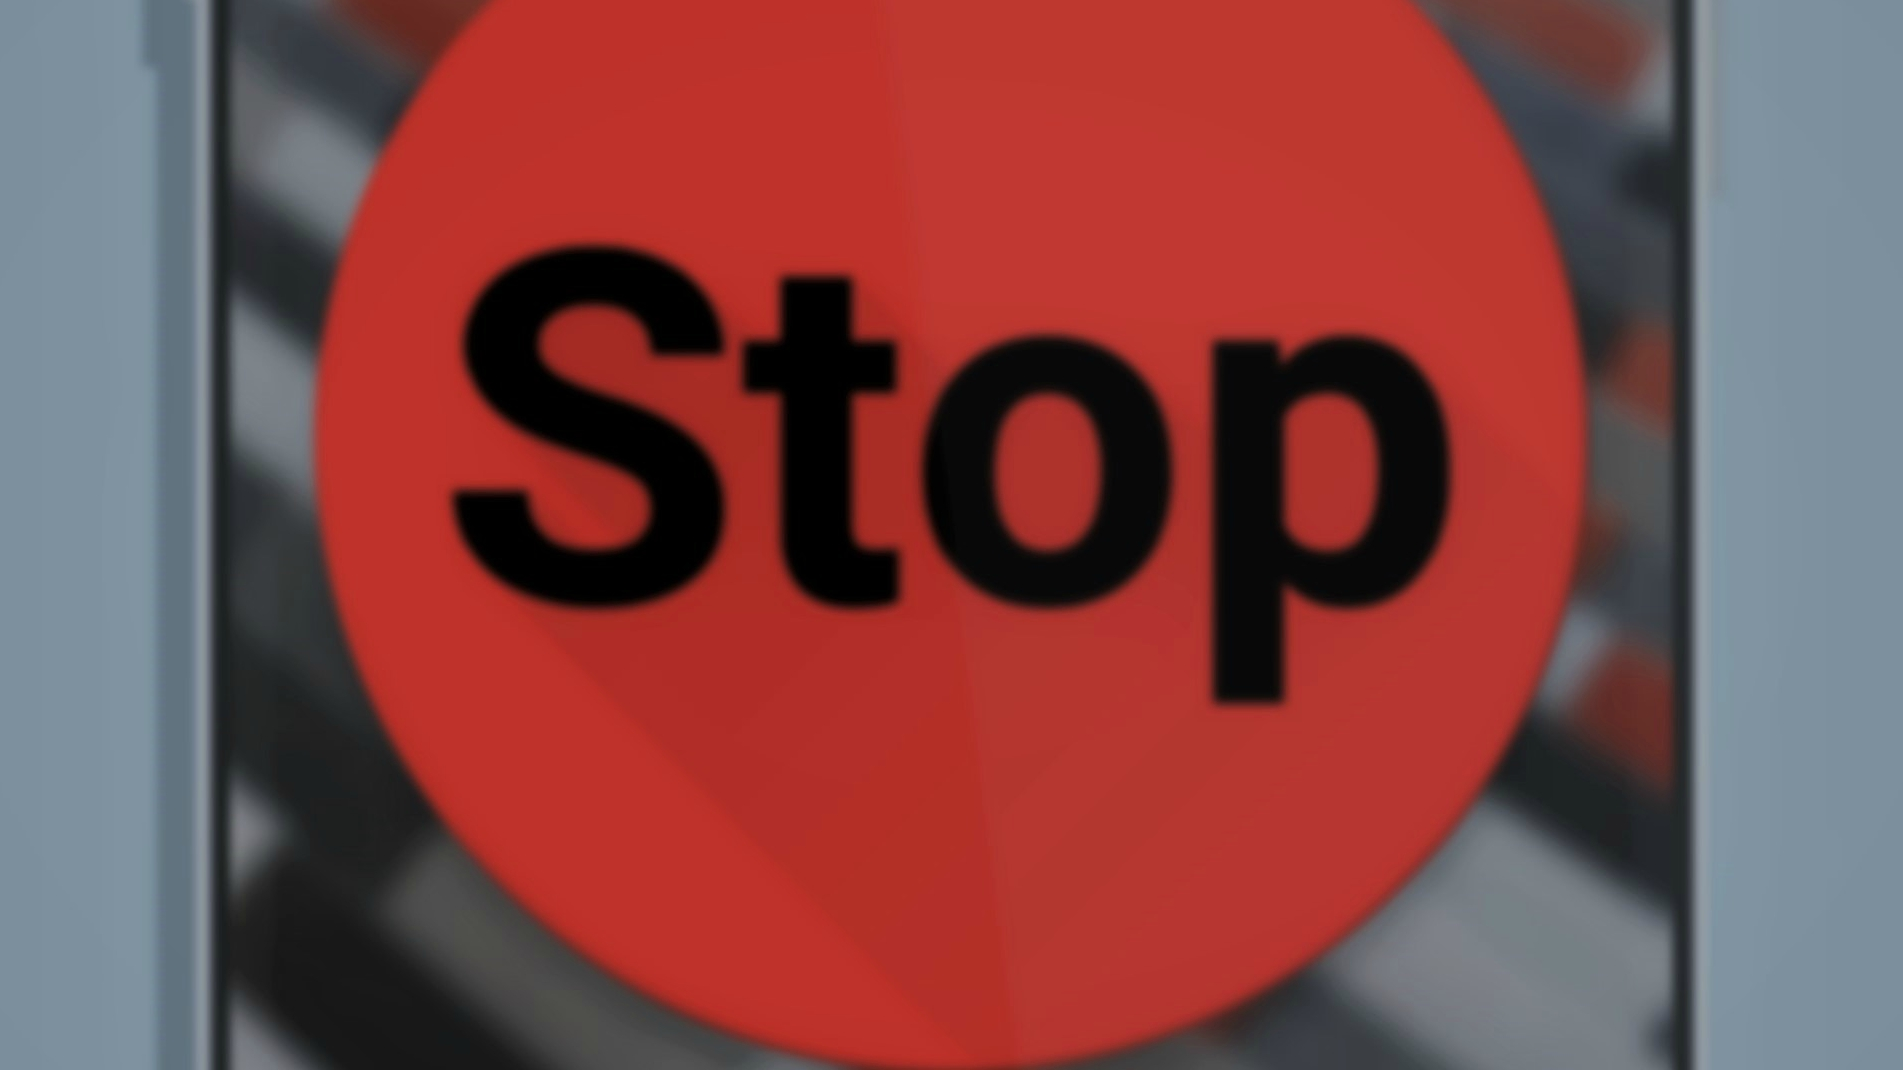
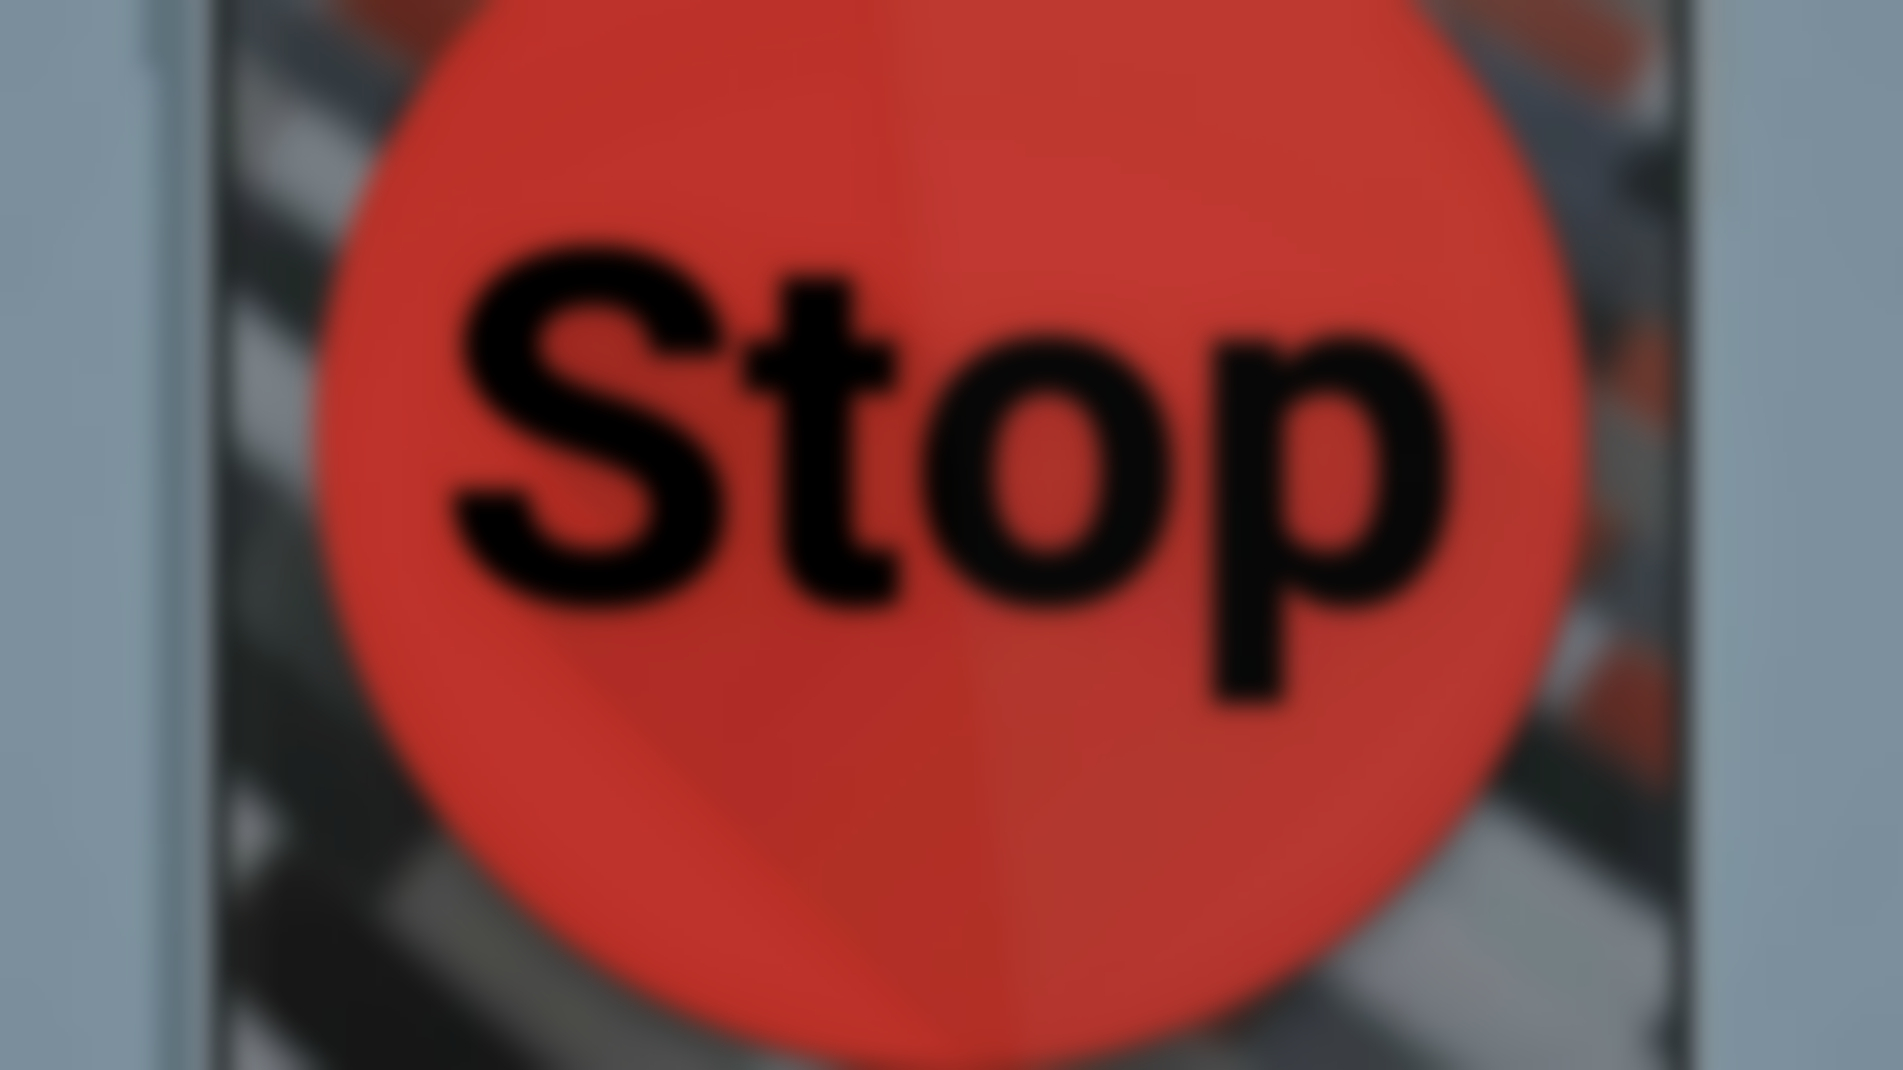
Extra blurring of backgrounds

diff --git a/index.html b/index.html
@@ -19,17 +19,21 @@
 
 <body>
 
+
+
   <!-- 1st page -->
   <div id="coverContainer" class="container">
     <h1 id="coverHeading" class="rightous introHeader"></h1>
+    <img id="downArrow"src="down-arrow.svg"></img>
   </div>
 
   <!-- 2nd page -->
   <div id="aboutMeContainer" class="flex-horizontal container">
     <h1 id="aboutMeHeader" class="headings rightous">About Me</h1>
     <div id="aboutMeContent"class="content comfortaa">
-      <p> I'm a college student who, when was first introduced to computer science junior year of high school,
-        had to look up what people with CS degrees even did for a living. Since then I have been drawn to code's ability to turn ideas into reality.
+      <p> I'm a college student who when was first introduced to computer science junior year of high school
+        had to look up what people with CS degrees even did for a living. Since then I have been drawn to code's ability to turn ideas into reality and have pursued multiple projects to help
+        master my skills.
       </p>
     </div>
   </div>
@@ -50,20 +54,22 @@
   </div>
 
   <!-- 4th page -->
-  <div id="pushUpProjectContainer" class="flex-horizontal container"  >
-    <h1 id="pushUpProjectHeader"class="headings rightous">Push-Up Fitness Tracker</h1>
-    <div class="content comfortaa">
-      <p>Utlization of the phones proxmity sensor for a contactless push-up tracker</p>
-      <a class="linkStyle" href="https://play.google.com/store/apps/details?id=com.awesome.scottquach.proximitypush_upcounter" target="_blank">Play Store</a>
-    </div>
-  </div>
-
-  <!-- 5th page -->
   <div  id="stopProjectContainer" class="flex-horizontal container" >
     <h1 id="stopProjectHeader"class="headings rightous">Stop</h1>
     <div class="content comfortaa">
       <p>My first foray into app development, a simple game where you try to stop a counter at 100, it's harder than you think.</p>
       <a class="linkStyle" href="https://play.google.com/store/apps/details?id=com.awesome.scott.stop" target="_blank">Play Store</a>
+    </div>
+  </div>
+
+
+  <!-- 5th page -->
+  <div id="pushUpProjectContainer" class="flex-horizontal container"  >
+    <h1 id="pushUpProjectHeader"class="headings rightous">Push-Up Fitness Tracker</h1>
+    <div class="content comfortaa">
+      <p>An app that utilizes of the phones proxmity sensor for a contactless push-up tracker</p>
+      <a class="linkStyle" href="https://play.google.com/store/apps/details?id=com.awesome.scottquach.proximitypush_upcounter" target="_blank">Play Store</a>
+      <a class="linkStyle" href="https://github.com/chuckglobal/Proximity-Push-Up-Counter" target="_blank">Github Repository</a>
     </div>
   </div>
 

diff --git a/stylesheet.css b/stylesheet.css
@@ -24,7 +24,7 @@ body {
 .content {
   font-size: 1.875em;
   width: 50vw;
-  color: #E0F7Fa;
+  color: #B9FAF8;
   text-align: left;
   margin: 10px 10px 10px 10px;
 }
@@ -38,12 +38,12 @@ body {
 }
 
 .linkStyle{
-  color: #03A9F4;
+  color: #E94F37;
   font-size: .75em;
   font-variant: small-caps;
 }
 .linkStyle:hover{
-  color: #0277BD;
+  color: #CD3B24;
 }
 
 .flex-horizontal{
@@ -75,12 +75,17 @@ body {
   transform: translateY(150px);
   animation: come-in 0.8s ease forwards;
 }
-@keyframes come-in {
-  to { transform: translateY(0); }
-}
+
 /*
   ID
   */
+#downArrow{
+  width: 5em;
+  height: 5em;
+  animation-name: pulse;
+  animation-duration: 8s;
+  animation-iteration-count: infinite;
+}
 
 #coverContainer{
   background-image: url("seattle_backdrop.jpg");
@@ -105,7 +110,7 @@ body {
 }
 
 #aboutMeHeader{
-  color: #81D4FA;
+  /*color: #81D4FA;*/
 }
 
 #experienceContainer{
@@ -113,7 +118,7 @@ body {
 }
 
 #experienceHeader{
-  color: #DCEDC8;
+  /*color: #DCEDC8;*/
 }
 
 
@@ -124,7 +129,7 @@ body {
 }
 
 #pushUpProjectHeader{
-  color:
+  /*color:*/
 }
 
 #stopProjectContainer{
@@ -134,7 +139,7 @@ body {
 }
 
 #stopProjectHeader{
-  color: #;
+  /*color: #FFCDD2;*/
 }
 
 #websiteProjectContainer{
@@ -142,7 +147,7 @@ body {
 }
 
 #websiteProjectHeader{
-  color: #FFAB91;
+  /*color: #FFAB91;*/
 }
 
 #contactMeContainer{
@@ -151,7 +156,7 @@ body {
 }
 
 #contactMeHeader{
-  color: #FFEB3B;
+  /*color: #FFEB3B;*/
 }
 
 /*
@@ -162,7 +167,17 @@ body {
   to{opacity:1;}
 }
 
+@keyframes come-in {
+  to { transform: translateY(0); }
+}
 
+@keyframes pulse {
+  0%{opacity: 1;}
+  25%{opacity: 0;}
+  50%{opacity: 1;}
+  75%{opacity: 0;}
+  100%{opacity: 1;}
+}
 
 
 /*
@@ -235,9 +250,9 @@ p {
   background-image: url("seattle_backdrop_mobile.jpg");
   background-size: cover;
   display: flex;
-  flex-direction: row;
+  flex-direction: column;
   align-items: center;
-  justify-content: flex-start;
+  justify-content: center;
 
 }
 
